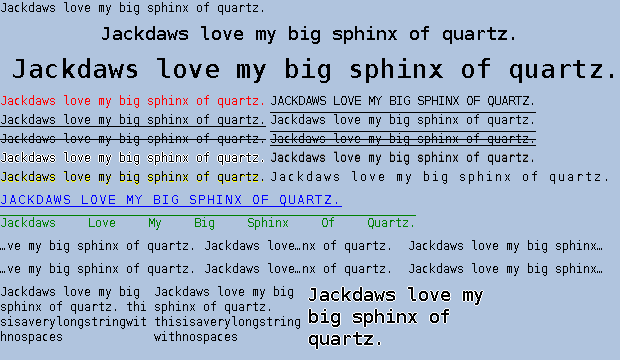
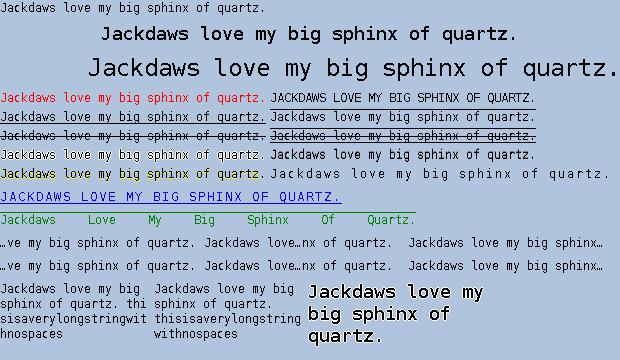
Remove pointSize from visual tests
Too unstable

Task-number: QTBUG-14792

diff --git a/tests/auto/declarative/qmlvisual/qdeclarativetext/font/plaintext.qml b/tests/auto/declarative/qmlvisual/qdeclarativetext/font/plaintext.qml
@@ -15,7 +15,7 @@ Rectangle {
             text: s.text; horizontalAlignment: Text.AlignHCenter; verticalAlignment: Text.AlignVCenter; width: s.width;
         }
         TestText {
-            font.pointSize: 20
+            font.pixelSize: 24
             text: s.text; horizontalAlignment: Text.AlignRight; verticalAlignment: Text.AlignBottom; width: s.width;
         }
         Grid{

diff --git a/tests/auto/declarative/qmlvisual/qdeclarativetext/font/richtext.qml b/tests/auto/declarative/qmlvisual/qdeclarativetext/font/richtext.qml
@@ -14,7 +14,7 @@ Rectangle {
             text: s.text; font.pixelSize: 18
         }
         TestText {
-            text: s.text; font.pointSize: 18
+            text: s.text; font.pixelSize: 24
         }
         TestText {
             text: s.text; color: "red"; smooth: true
